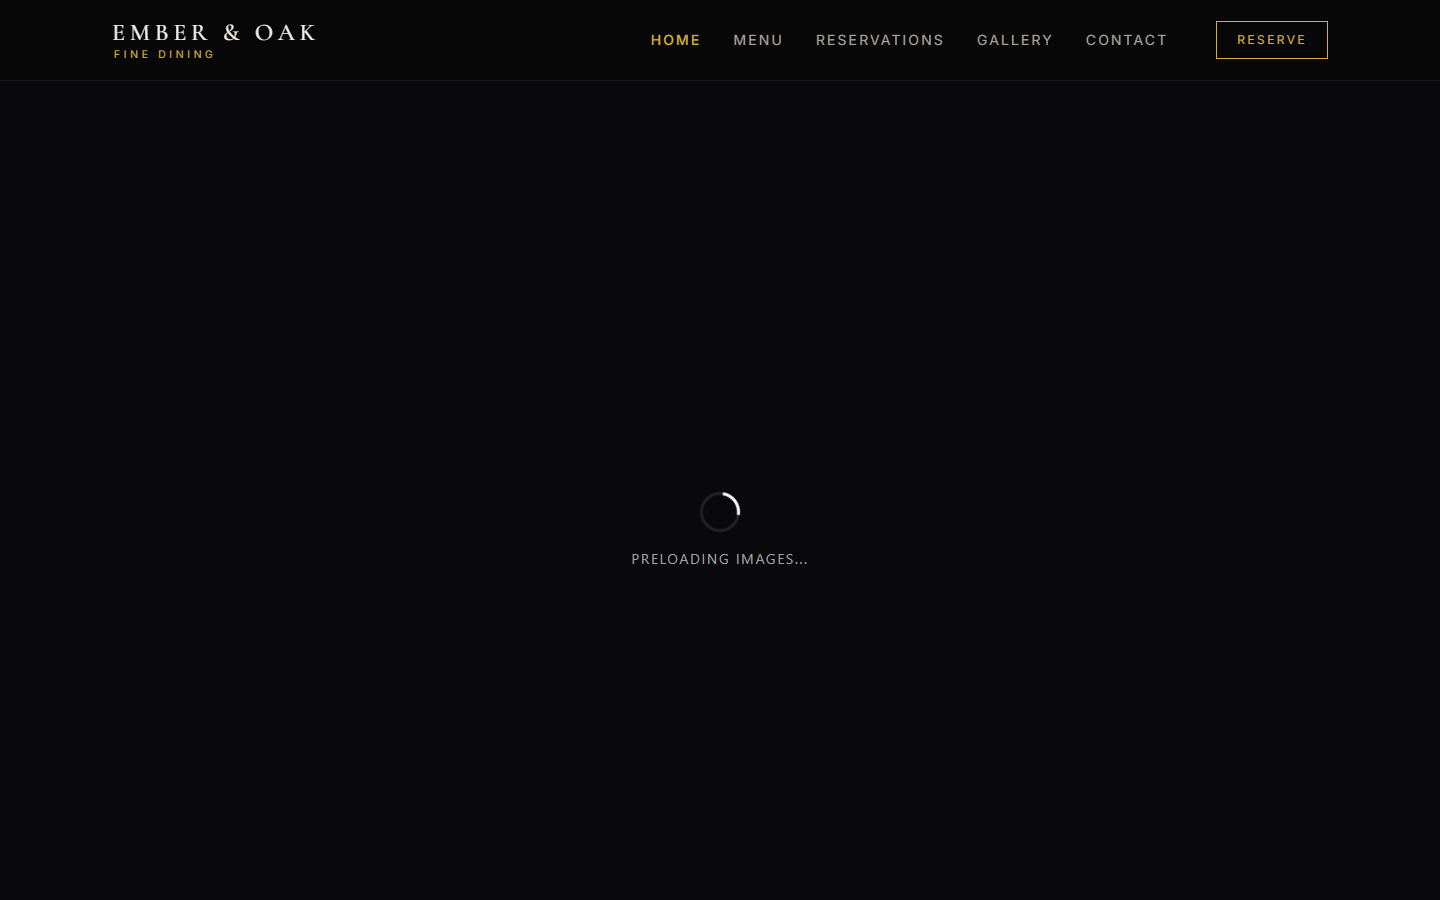
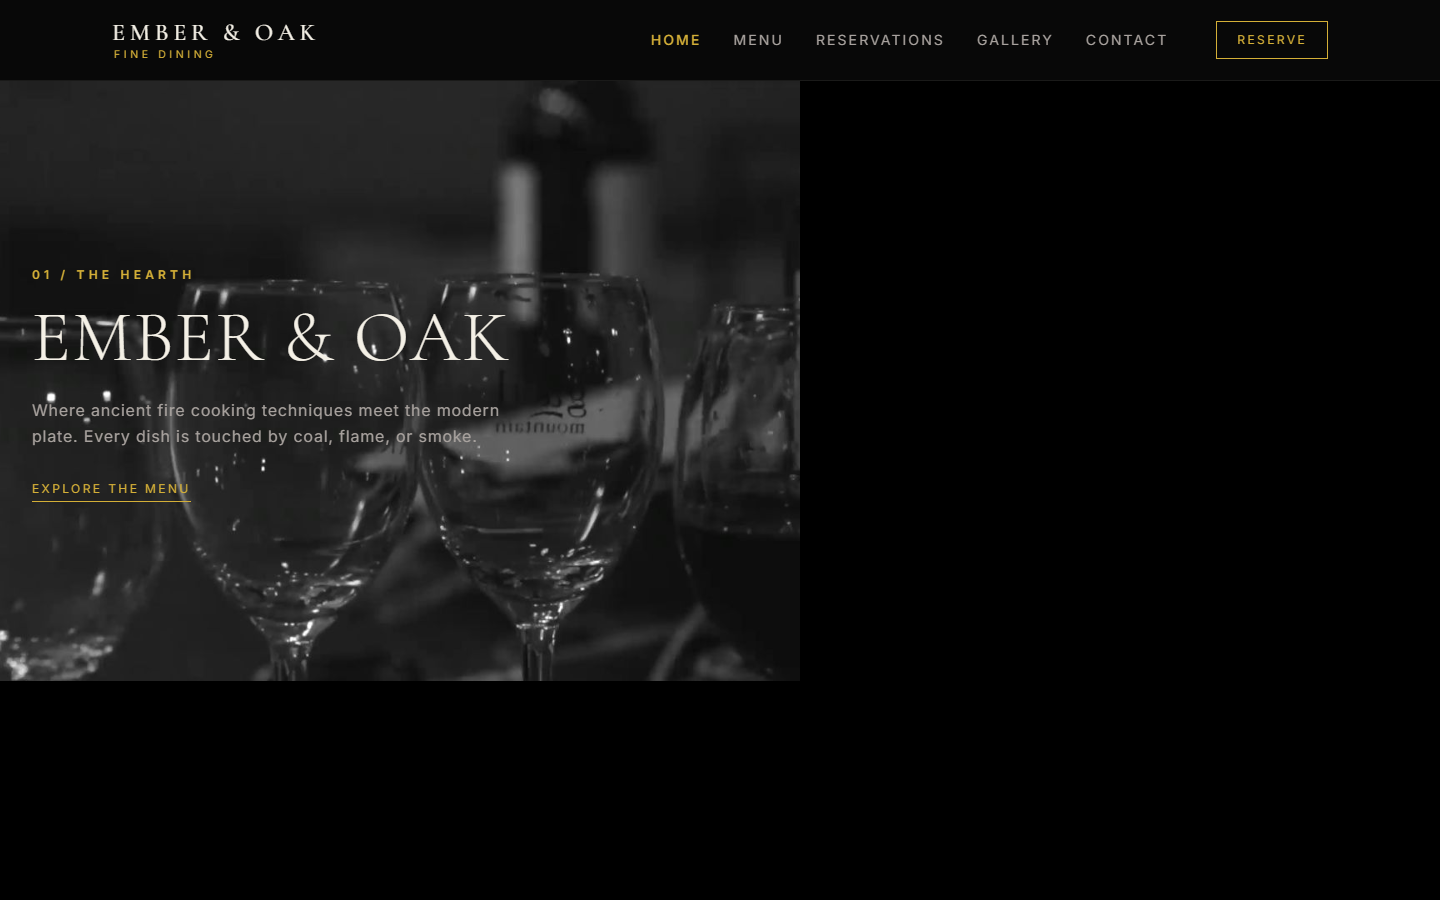
Fix project case studies 404 errors by adding dynamic redirects to live URLs, styling a custom 404 page, and making project cards clickable

Changed region(s): [[0.0, 0.0622, 0.5625, 0.7778], [0.0625, 0.28, 0.125, 0.3111]]

diff --git a/src/app/not-found.tsx b/src/app/not-found.tsx
@@ -1,0 +1,44 @@
+"use client";
+
+import Link from "next/link";
+import { ArrowLeft, Compass } from "lucide-react";
+
+export default function NotFound() {
+  return (
+    <div className="min-h-screen bg-[#040405] text-white flex flex-col justify-center items-center px-6 relative overflow-hidden">
+      {/* Background ambient glow */}
+      <div className="absolute top-1/2 left-1/2 -translate-x-1/2 -translate-y-1/2 w-[500px] h-[500px] bg-accent-glow rounded-full blur-[150px] pointer-events-none opacity-40"></div>
+
+      <div className="max-w-md w-full text-center relative z-10 flex flex-col items-center gap-6">
+        {/* Monospace Error Code with Accent dot */}
+        <div className="flex items-center gap-2 border border-accent/20 bg-accent-glow px-4 py-1.5 rounded-full text-xs font-mono text-accent">
+          <Compass className="h-4 w-4 animate-spin-slow" />
+          <span>OUT OF BOUNDS</span>
+        </div>
+
+        <h1 className="font-display text-8xl font-black tracking-tight text-white uppercase mt-4">
+          404
+        </h1>
+
+        <h2 className="font-display text-2xl font-bold tracking-tight text-white uppercase">
+          Page Not Found
+        </h2>
+
+        <p className="font-sans text-sm text-foreground-muted leading-relaxed max-w-sm">
+          We construct web experiences with mathematical precision, but this requested link resides outside our mapped grid coordinates.
+        </p>
+
+        {/* Back Home CTA */}
+        <div className="mt-4">
+          <Link
+            href="/"
+            className="inline-flex items-center gap-2 rounded-lg bg-accent text-zinc-950 px-6 py-3.5 text-xs font-semibold tracking-widest uppercase hover-scale hover-glow transition-all duration-300"
+          >
+            <ArrowLeft className="h-4 w-4" />
+            RETURN TO BASE
+          </Link>
+        </div>
+      </div>
+    </div>
+  );
+}

diff --git a/src/app/page.tsx b/src/app/page.tsx
@@ -193,9 +193,12 @@ export default function Home() {
 
           <div className="stagger-container grid grid-cols-1 md:grid-cols-3 gap-8">
             {featuredProjects.map((project) => (
-              <div
+              <Link
                 key={project.slug}
-                className="stagger-item group relative overflow-hidden rounded-lg border border-zinc-900 bg-surface hover-border transition-all duration-300 flex flex-col h-full"
+                href={`/projects/${project.slug}`}
+                target="_blank"
+                rel="noopener noreferrer"
+                className="stagger-item group relative overflow-hidden rounded-lg border border-zinc-900 bg-surface hover-border transition-all duration-300 flex flex-col h-full cursor-pointer"
               >
                 {/* Visual Representation */}
                 <div className="relative aspect-[16/10] w-full overflow-hidden border-b border-zinc-900 bg-zinc-950">
@@ -227,12 +230,12 @@ export default function Home() {
                   </p>
                   <div className="mt-6 pt-6 border-t border-zinc-900 flex items-center justify-between">
                     <span className="group-hover:text-accent text-xs font-semibold flex items-center gap-1 transition-colors">
-                      CASE STUDY COMING SOON
+                      VIEW LIVE DEMO
                       <ArrowUpRight className="h-3 w-3 group-hover:translate-x-0.5 group-hover:-translate-y-0.5 transition-transform" />
                     </span>
                   </div>
                 </div>
-              </div>
+              </Link>
             ))}
           </div>
         </div>

diff --git a/src/app/project/[slug]/page.tsx b/src/app/project/[slug]/page.tsx
@@ -1,0 +1,17 @@
+import { projects } from "@/data/projects";
+import { redirect, notFound } from "next/navigation";
+
+interface ProjectRedirectProps {
+  params: Promise<{ slug: string }>;
+}
+
+export default async function ProjectRedirectPage({ params }: ProjectRedirectProps) {
+  const { slug } = await params;
+  const project = projects.find((p) => p.slug === slug);
+
+  if (!project) {
+    notFound();
+  }
+
+  redirect(project.url);
+}

diff --git a/src/app/projects/[slug]/page.tsx b/src/app/projects/[slug]/page.tsx
@@ -1,0 +1,17 @@
+import { projects } from "@/data/projects";
+import { redirect, notFound } from "next/navigation";
+
+interface ProjectRedirectProps {
+  params: Promise<{ slug: string }>;
+}
+
+export default async function ProjectRedirectPage({ params }: ProjectRedirectProps) {
+  const { slug } = await params;
+  const project = projects.find((p) => p.slug === slug);
+
+  if (!project) {
+    notFound();
+  }
+
+  redirect(project.url);
+}
